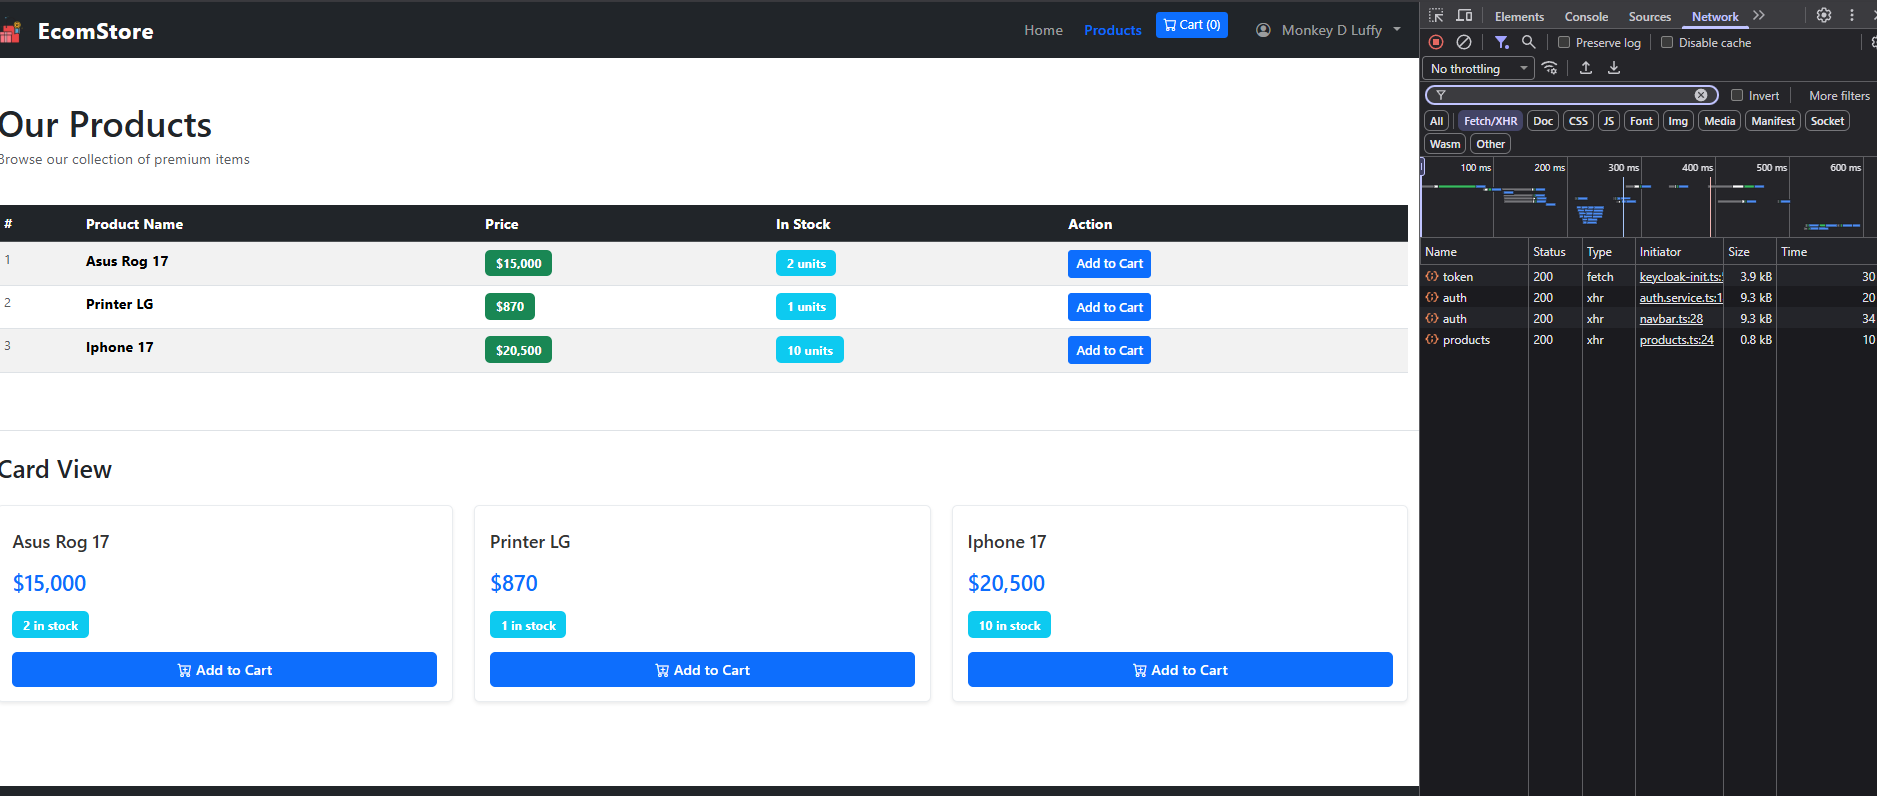
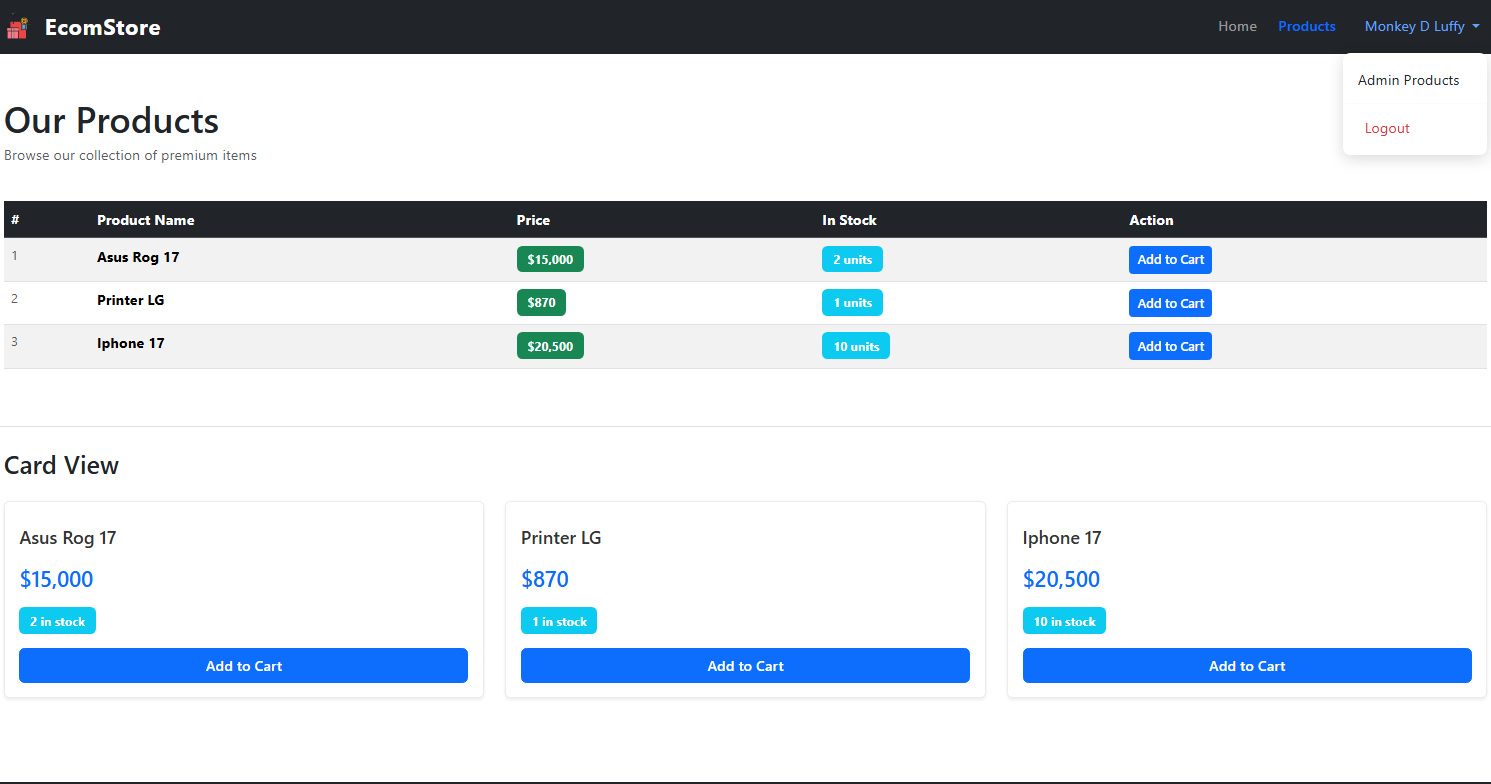
feat : implement login logout using keycloak & add guard auth testing our frontend | take screenshots

diff --git a/ecom-angular-app/src/app/ui/navbar/navbar.html b/ecom-angular-app/src/app/ui/navbar/navbar.html
@@ -4,77 +4,53 @@
       <img src="/favicon.png" alt="Logo" width="30" height="30" class="d-inline-block align-text-top me-2">
       EcomStore
     </a>
-    <button
-      class="navbar-toggler"
-      type="button"
-      data-bs-toggle="collapse"
-      data-bs-target="#navbarNav"
-      aria-controls="navbarNav"
-      aria-expanded="false"
-      aria-label="Toggle navigation">
+
+    <button class="navbar-toggler" type="button" data-bs-toggle="collapse" data-bs-target="#navbarNav">
       <span class="navbar-toggler-icon"></span>
     </button>
+
     <div class="collapse navbar-collapse" id="navbarNav">
-      <ul class="navbar-nav ms-auto">
+      <ul class="navbar-nav ms-auto align-items-center" *ngIf="authState$ | async as state">
+
         <li class="nav-item">
           <a class="nav-link" routerLink="/home" routerLinkActive="active">Home</a>
         </li>
-        <li class="nav-item">
+        <li *ngIf="state.roles.includes('ADMIN')" class="nav-item">
           <a class="nav-link" routerLink="/products" routerLinkActive="active">Products</a>
         </li>
-        <li class="nav-item ms-2">
-          <a class="btn btn-sm btn-primary" href="#">
-            <i class="bi bi-cart"></i> Cart (0)
-          </a>
-        </li>
 
-        <!-- Authenticated User Section: uses displayUser$ from component -->
-        <li *ngIf="displayUser$ | async as user" [class.show]="showDropdown" class="nav-item dropdown ms-3">
-          <a
-            class="nav-link dropdown-toggle"
-            href="#"
-            id="userDropdown"
-            role="button"
-            (click)="toggleDropdown($event)"
-            [attr.aria-expanded]="showDropdown"
-          >
-            <i class="bi bi-person-circle me-2"></i>
-            {{ user?.name }}
-          </a>
-          <ul class="dropdown-menu dropdown-menu-end" aria-labelledby="userDropdown" [class.show]="showDropdown">
-            <li *ngIf="user">
-              <span class="dropdown-header">{{ user.email }}</span>
-            </li>
-            <li>
-              <hr class="dropdown-divider" />
-            </li>
-            <li>
-              <a class="dropdown-item" href="#">
-                <i class="bi bi-person me-2"></i>Profile
-              </a>
-            </li>
-            <li>
-              <a class="dropdown-item" href="#">
-                <i class="bi bi-gear me-2"></i>Settings
-              </a>
-            </li>
-            <li>
-              <hr class="dropdown-divider" />
-            </li>
-            <li>
-              <button class="dropdown-item text-danger" (click)="logout()" type="button">
-                <i class="bi bi-box-arrow-right me-2"></i>Logout
-              </button>
-            </li>
-          </ul>
-        </li>
+        <ng-container *ngIf="state.authenticated; else loggedOut">
+          <li class="nav-item dropdown">
+            <a class="nav-link dropdown-toggle d-flex align-items-center" href="#" id="accountDropdown" role="button"
+              data-bs-toggle="dropdown" aria-expanded="false">
+              <i class="bi bi-person-circle me-2"></i>
+              {{ state.username || 'Account' }}
+            </a>
+            <ul class="dropdown-menu dropdown-menu-end" aria-labelledby="accountDropdown">
 
-        <!-- Visible Logout Button for quick access -->
-        <li *ngIf="displayUser$ | async" class="nav-item ms-2">
-          <button class="btn btn-outline-light btn-sm" (click)="logout()" type="button">
-            <i class="bi bi-box-arrow-right me-1"></i>Logout
-          </button>
-        </li>
+              <li *ngIf="state.roles.includes('ADMIN')">
+                <a class="dropdown-item" routerLink="/products">Admin Products</a>
+              </li>
+
+              <li>
+                <hr class="dropdown-divider">
+              </li>
+              <li>
+                <button class="dropdown-item text-danger" (click)="handleLogout()">
+                  <i class="bi bi-box-arrow-right me-2"></i>Logout
+                </button>
+              </li>
+            </ul>
+          </li>
+        </ng-container>
+
+        <ng-template #loggedOut>
+          <li class="nav-item">
+            <button class="btn btn-outline-light ms-lg-3" (click)="handleLogin()">
+              Login
+            </button>
+          </li>
+        </ng-template>
 
       </ul>
     </div>

diff --git a/ecom-angular-app/src/app/ui/navbar/navbar.ts b/ecom-angular-app/src/app/ui/navbar/navbar.ts
@@ -1,59 +1,35 @@
+import { AuthService, AuthState } from './../../services/auth.service';
+import { KeycloakService } from 'keycloak-angular';
 import { Component, OnInit } from '@angular/core';
-import { CommonModule } from '@angular/common';
-import { RouterModule, Router } from '@angular/router';
-import { AuthService } from '../../services/auth.service';
+import { Router } from '@angular/router';
+import { KeycloakProfile } from 'keycloak-js';
 import { Observable } from 'rxjs';
-import { map } from 'rxjs/operators';
-
 @Component({
   selector: 'app-navbar',
   standalone: false,
   templateUrl: './navbar.html',
-  styleUrl: './navbar.css',
+  styleUrls: ['./navbar.css'],
 })
 export class Navbar implements OnInit {
-  // Observables exposed to the template
-  isAuthenticated$!: Observable<boolean>;
-  displayUser$!: Observable<{ name: string | null; email: string | null } | null>;
-  // local UI state for dropdown
-  showDropdown = false;
+// We expose the observable directly to the template
+  authState$: Observable<AuthState>;
 
-  constructor(
-    public authService: AuthService,
-    private router: Router
-  ) {}
-
-  ngOnInit() {
-    // auth$ emits AuthState { initialized, authenticated, username, roles, token }
-    this.isAuthenticated$ = this.authService.auth$.pipe(map(s => s.authenticated));
-
-    // Map to a lightweight user object used by the template
-    this.displayUser$ = this.authService.auth$.pipe(
-      map(s =>
-        s.authenticated
-          ? { name: s.username || null, email: null }
-          : null
-      )
-    );
-
-    // If AuthService requires an initial load call, ensure it's done elsewhere (APP_INITIALIZER)
+  constructor(private authService: AuthService) {
+    this.authState$ = this.authService.auth$;
   }
 
-  toggleDropdown(event?: Event) {
-    if (event) event.preventDefault();
-    this.showDropdown = !this.showDropdown;
+  ngOnInit(): void {
+    // Ensure the state is loaded (if not already handled by APP_INITIALIZER)
+    this.authService.loadState();
   }
 
-  closeDropdown() {
-    this.showDropdown = false;
+  handleLogin() {
+    this.authService.login();
   }
 
-  logout(): void {
-    // AuthService.logout delegates to Keycloak when available
+  handleLogout() {
     this.authService.logout();
-    // Keycloak logout typically handles redirects; if not, navigate home
-    try {
-      this.router.navigate(['/home']);
-    } catch {}
   }
+
+
 }

diff --git a/ecom-angular-app/src/app/guards/auth-guard.ts b/ecom-angular-app/src/app/guards/auth-guard.ts
@@ -1,17 +1,47 @@
-import { KeycloakService } from 'keycloak-angular';
+import { KeycloakAuthGuard, KeycloakService } from 'keycloak-angular';
 import { Injectable } from '@angular/core';
-import { CanActivate } from '@angular/router';
+import { ActivatedRouteSnapshot, RouterStateSnapshot, UrlTree, Router } from '@angular/router';
 
 @Injectable({ providedIn: 'root' })
-export class AuthGuard implements CanActivate {
-  constructor(private keycloak: KeycloakService) {}
+export class AuthGuard extends KeycloakAuthGuard {
+  constructor(
+    protected override readonly router: Router,
+    protected readonly keycloak: KeycloakService
+  ) {
+    super(router, keycloak);
+  }
 
-  async canActivate(): Promise<boolean> {
-    const loggedIn = await this.keycloak.isLoggedIn();
-    if (!loggedIn) {
-      await this.keycloak.login();
+  public async isAccessAllowed(
+    route: ActivatedRouteSnapshot,
+    state: RouterStateSnapshot
+  ): Promise<boolean | UrlTree> {
+
+    // 1. Force the user to log in if they are not authenticated
+    if (!this.authenticated) {
+      await this.keycloak.login({
+        redirectUri: window.location.origin + state.url
+      });
       return false;
     }
+
+    // 2. Get the roles required for this specific route
+    const requiredRoles = route.data['roles'];
+
+    // 3. Allow access if no roles are defined for the route
+    if (!Array.isArray(requiredRoles) || requiredRoles.length === 0) {
+      return true;
+    }
+
+    // 4. Check if the user has AT LEAST ONE of the required roles
+    // Use .every() if you strictly require them to have ALL roles
+    const hasRequiredRole = requiredRoles.some((role: string) => this.roles.includes(role));
+
+    if (!hasRequiredRole) {
+      // Optional: Redirect to an 'unauthorized' page instead of just returning false
+      // return this.router.parseUrl('/unauthorized');
+      return false;
+    }
+
     return true;
   }
 }

diff --git a/ecom-angular-app/src/index.html b/ecom-angular-app/src/index.html
@@ -6,11 +6,8 @@
   <base href="/">
   <meta name="viewport" content="width=device-width, initial-scale=1">
   <link rel="icon" type="image/x-icon" href="favicon.ico">
-  <link href="https://cdn.jsdelivr.net/npm/bootstrap@5.3.0/dist/css/bootstrap.min.css" rel="stylesheet">
-  <link rel="stylesheet" href="https://cdn.jsdelivr.net/npm/bootstrap-icons@1.13.1/font/bootstrap-icons.css">
 </head>
 <body>
   <app-root></app-root>
-  <script src="https://cdn.jsdelivr.net/npm/bootstrap@5.3.0/dist/js/bootstrap.bundle.min.js"></script>
 </body>
 </html>

diff --git a/ecom-angular-app/src/app/services/auth.service.ts b/ecom-angular-app/src/app/services/auth.service.ts
@@ -1,6 +1,6 @@
 import { Injectable } from '@angular/core';
 import { BehaviorSubject } from 'rxjs';
-import { KeycloakService } from 'angular-keycloak';
+import { KeycloakService } from 'keycloak-angular';
 
 export interface AuthState {
   initialized: boolean;
@@ -35,7 +35,7 @@ export class AuthService {
     this.state$.next({
       initialized: true,
       authenticated,
-      username: profile?.username || null,
+      username: profile?.firstName + " " + profile?.lastName || null,
       roles,
       token
     });

diff --git a/ecom-angular-app/src/main.ts b/ecom-angular-app/src/main.ts
@@ -2,6 +2,6 @@ import { platformBrowser } from '@angular/platform-browser';
 import { AppModule } from './app/app-module';
 
 platformBrowser().bootstrapModule(AppModule, {
-  
+
 })
   .catch(err => console.error(err));
